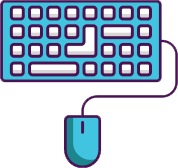
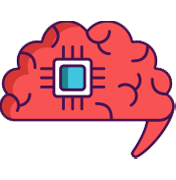
A few more changes to intro page

diff --git a/portofolio-app/src/MainPage/Intro.js b/portofolio-app/src/MainPage/Intro.js
@@ -10,7 +10,7 @@ function Intro() {
       <div className="bg-gradient-to-b from-blue-950 to-blue-900 min-h-screen flex flex-row justify-between">
         <div className="flex flex-col justify-around pl-5 md:pl-20">
           <img className="w-24 object-scale-down" src='image1.png' alt="logo1" />
-          <img className="w-24 object-scale-down" src='image2.png' alt="logo2" />
+          <img className="w-28 object-scale-down" src='image2.png' alt="logo2" />
           <img className="w-24 object-scale-down" src='image3.png' alt="logo3" />
         </div>
         <div className="flex flex-col justify-center">
@@ -28,7 +28,7 @@ function Intro() {
 }
 
 const NameComponent = () => {
-  const name = "Vlad Luca Sebastian Spătaru";
+  const name = "Vlad Luca Spătaru";
   const characters = name.split('');
   const characterRefs = useRef([]);
 
@@ -44,12 +44,12 @@ const NameComponent = () => {
   }, []);
 
   return (
-    <div className="text-amber-600 text-center text-xl lg:text-4xl xl:text-6xl font-bold">
+    <div className="text-amber-600 text-center text-lg md:text-4xl lg:text-7xl font-bold">
       {characters.map((character, index) => (
         <span
           key={index}
           ref={el => (characterRefs.current[index] = el)}
-          className={`inline-block ${character === ' ' ? 'ml-2' : ''}`}
+          className={`inline-block ${character === ' ' ? 'ml-2 md:ml-4' : ''}`}
         >
           {character}
         </span>

diff --git a/portofolio-app/src/index.js b/portofolio-app/src/index.js
@@ -7,11 +7,9 @@ import { BrowserRouter } from 'react-router-dom';
 
 const root = ReactDOM.createRoot(document.getElementById('root'));
 root.render(
-  <React.StrictMode>
     <BrowserRouter>
       <App />    
     </BrowserRouter>
-  </React.StrictMode>
 );
 
 // If you want to start measuring performance in your app, pass a function
